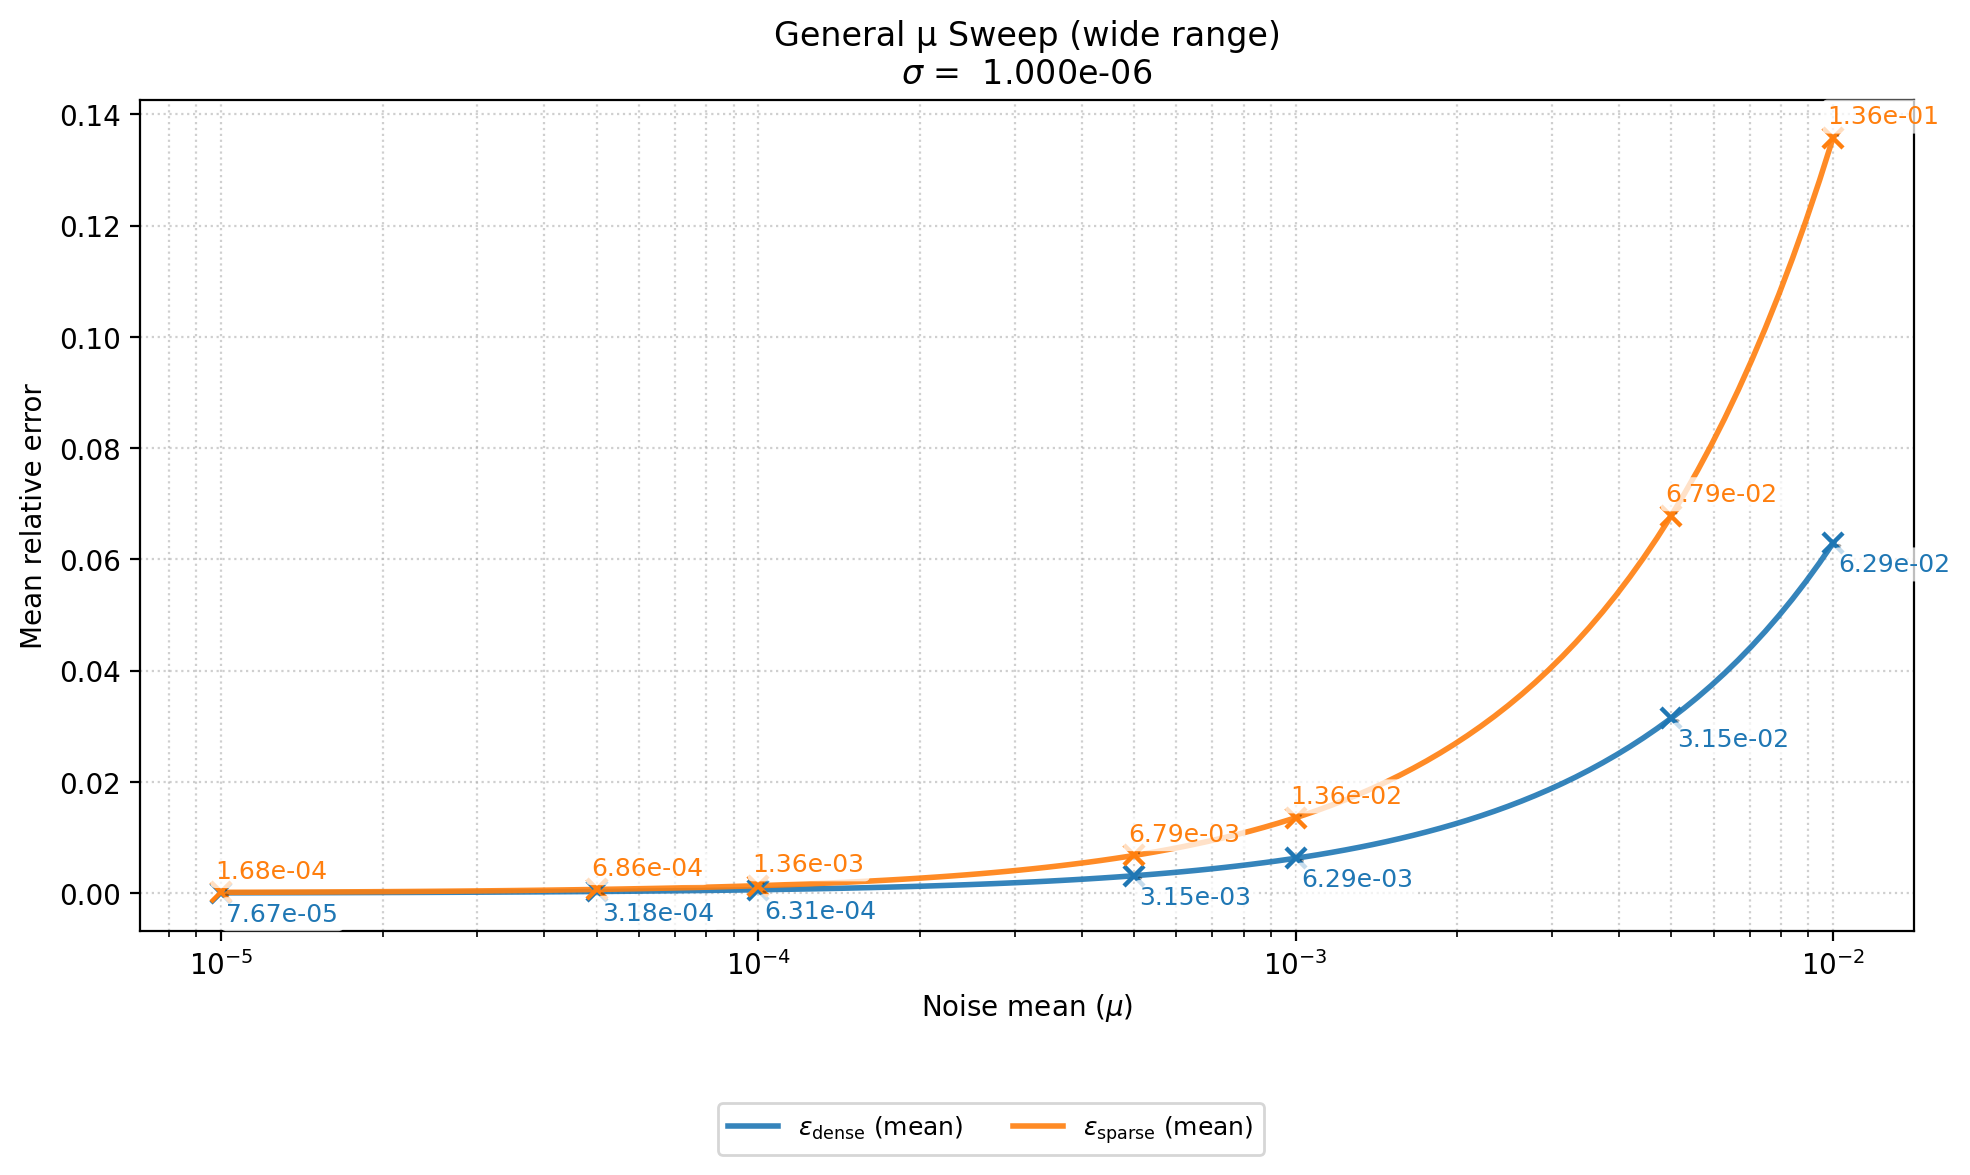
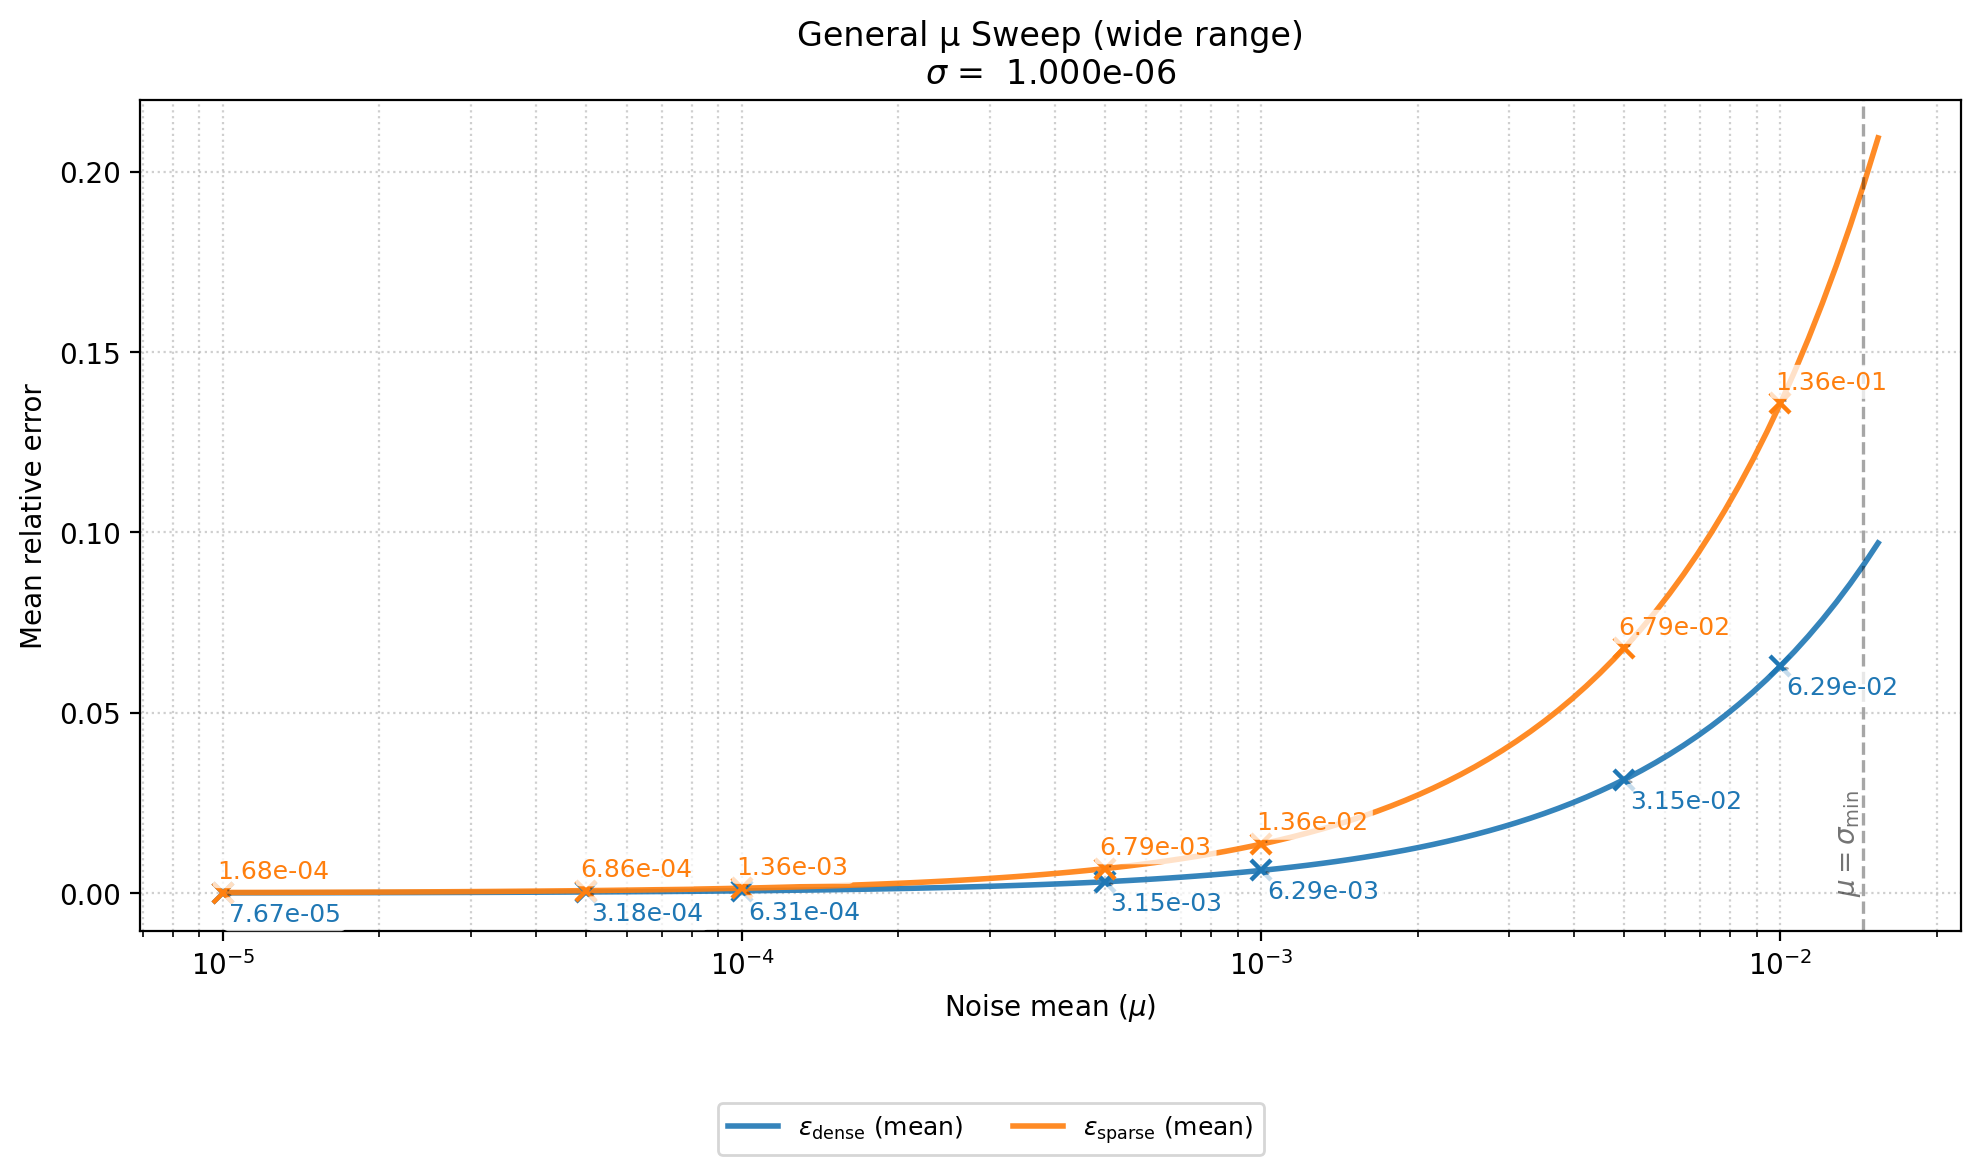
Add vertical reference line for minimum singular value in general μ sweep plot

diff --git a/src/tools/test_noise_sensitivity.py b/src/tools/test_noise_sensitivity.py
@@ -240,6 +240,7 @@ def save_general_mu_sweep_plot(
     mean_es,
     out_path: Path,
     sigma_fixed: float,
+    sigma_min: float | None,
     markers: list[float],
     logx: bool,
 ):
@@ -294,6 +295,7 @@ def save_general_mu_sweep_plot(
                 va="bottom",
             )
 
+
         # Sparse (shift opposite direction to avoid stacking with dense label)
         if sparse_line is not None:
             ys = float(np.interp(m, mus, mean_es))
@@ -317,6 +319,28 @@ def save_general_mu_sweep_plot(
     ax.set_ylabel("Mean relative error")
     ax.set_title("General μ Sweep (wide range)\n" + rf"$\sigma$ = {_fmt(sigma_fixed)}")
     ax.grid(True, which="both", linestyle=":", alpha=0.6)
+
+        # --- Vertical reference at smallest singular value ---
+    if sigma_min is not None and mus.min() <= sigma_min <= mus.max():
+        ax.axvline(
+            sigma_min,
+            ls="--",
+            lw=1.2,
+            color="black",
+            alpha=0.35,
+        )
+        y_max = ax.get_ylim()[1]
+        ax.text(
+            sigma_min,
+            y_max * 0.13,
+            r"$\mu = \sigma_{\min}$",
+            rotation=90,
+            va="top",
+            ha="right",
+            alpha=0.55,
+            fontsize=10,
+        )
+
 
     if logx:
         ax.set_xscale("log")
@@ -454,7 +478,7 @@ def main():
     # General sweep (wide range)
     DO_GENERAL_MU_SWEEP = True
     GENERAL_MU_A = 1e-5
-    GENERAL_MU_B = 1e-2
+    GENERAL_MU_B = SIGMA_MIN_FOR_VLINE +  1e-3
     GENERAL_MU_N = 120
     GENERAL_MU_LOG = True
     GENERAL_SWEEP_OUT = outPath.with_name(args.A_path.stem + "_mu_sweep_general.png")
@@ -576,8 +600,10 @@ def main():
             mean_es=mean_es_g,
             out_path=GENERAL_SWEEP_OUT,
             sigma_fixed=SIGMA,
+            sigma_min=SIGMA_MIN_FOR_VLINE,
             markers=GENERAL_MARKERS,
             logx=GENERAL_MU_LOG,
+            
         )
         print(f"Saved GENERAL μ-sweep plot to: {GENERAL_SWEEP_OUT}")
         print(f"General μ range: [{_fmt(float(mus_g.min()))}, {_fmt(float(mus_g.max()))}] "
